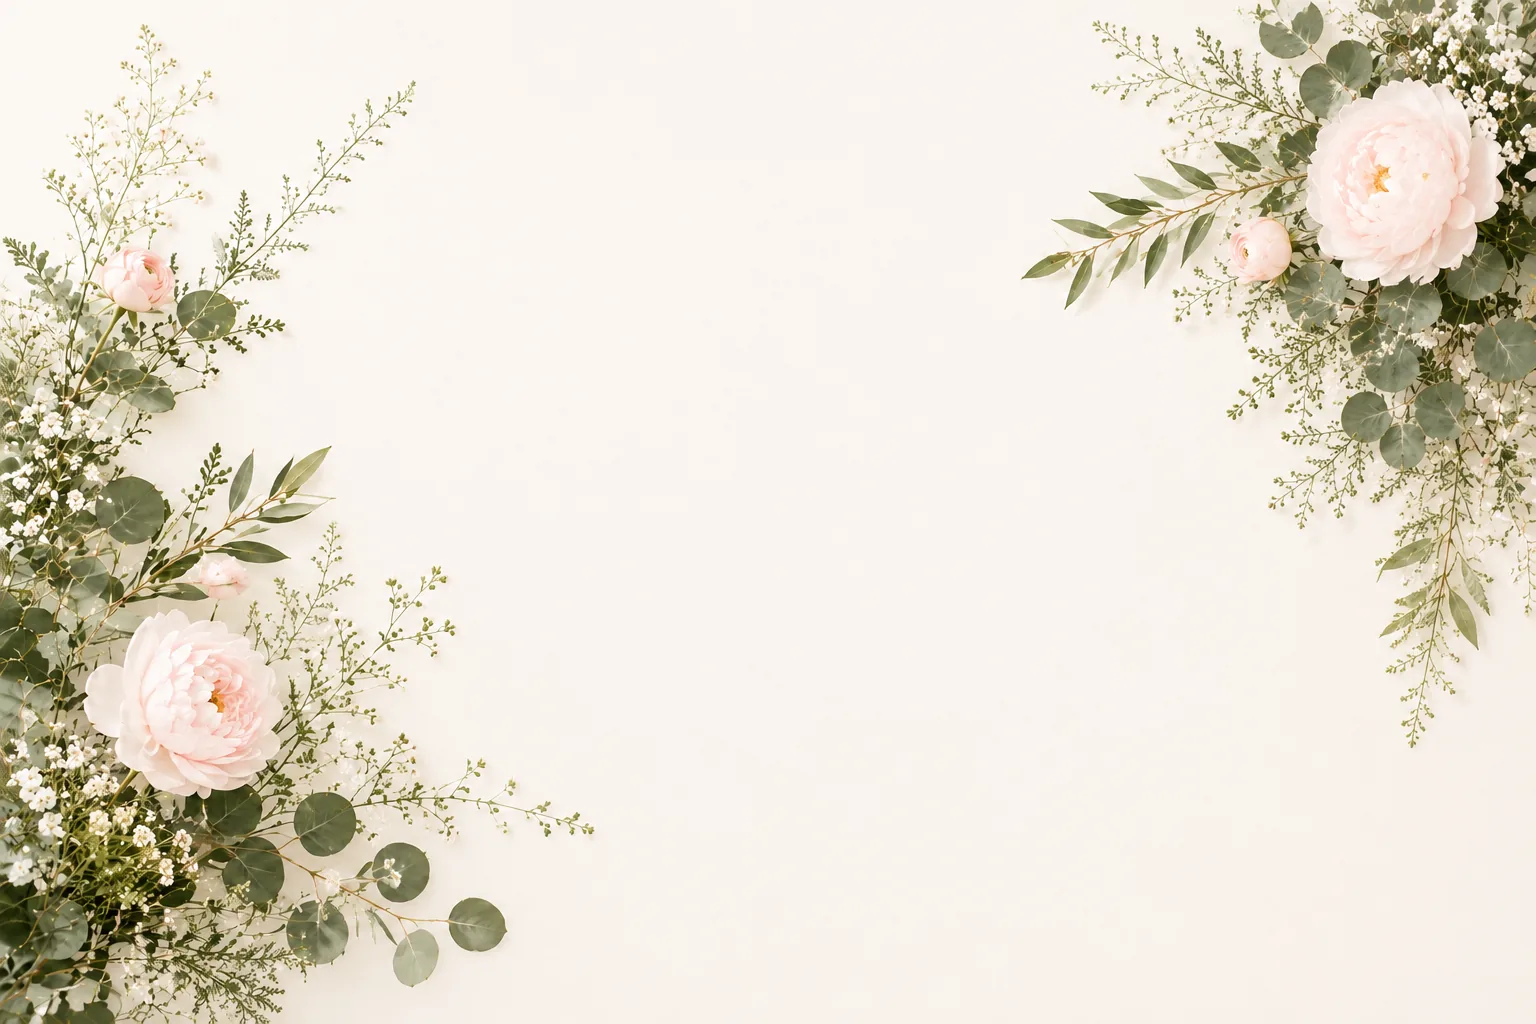
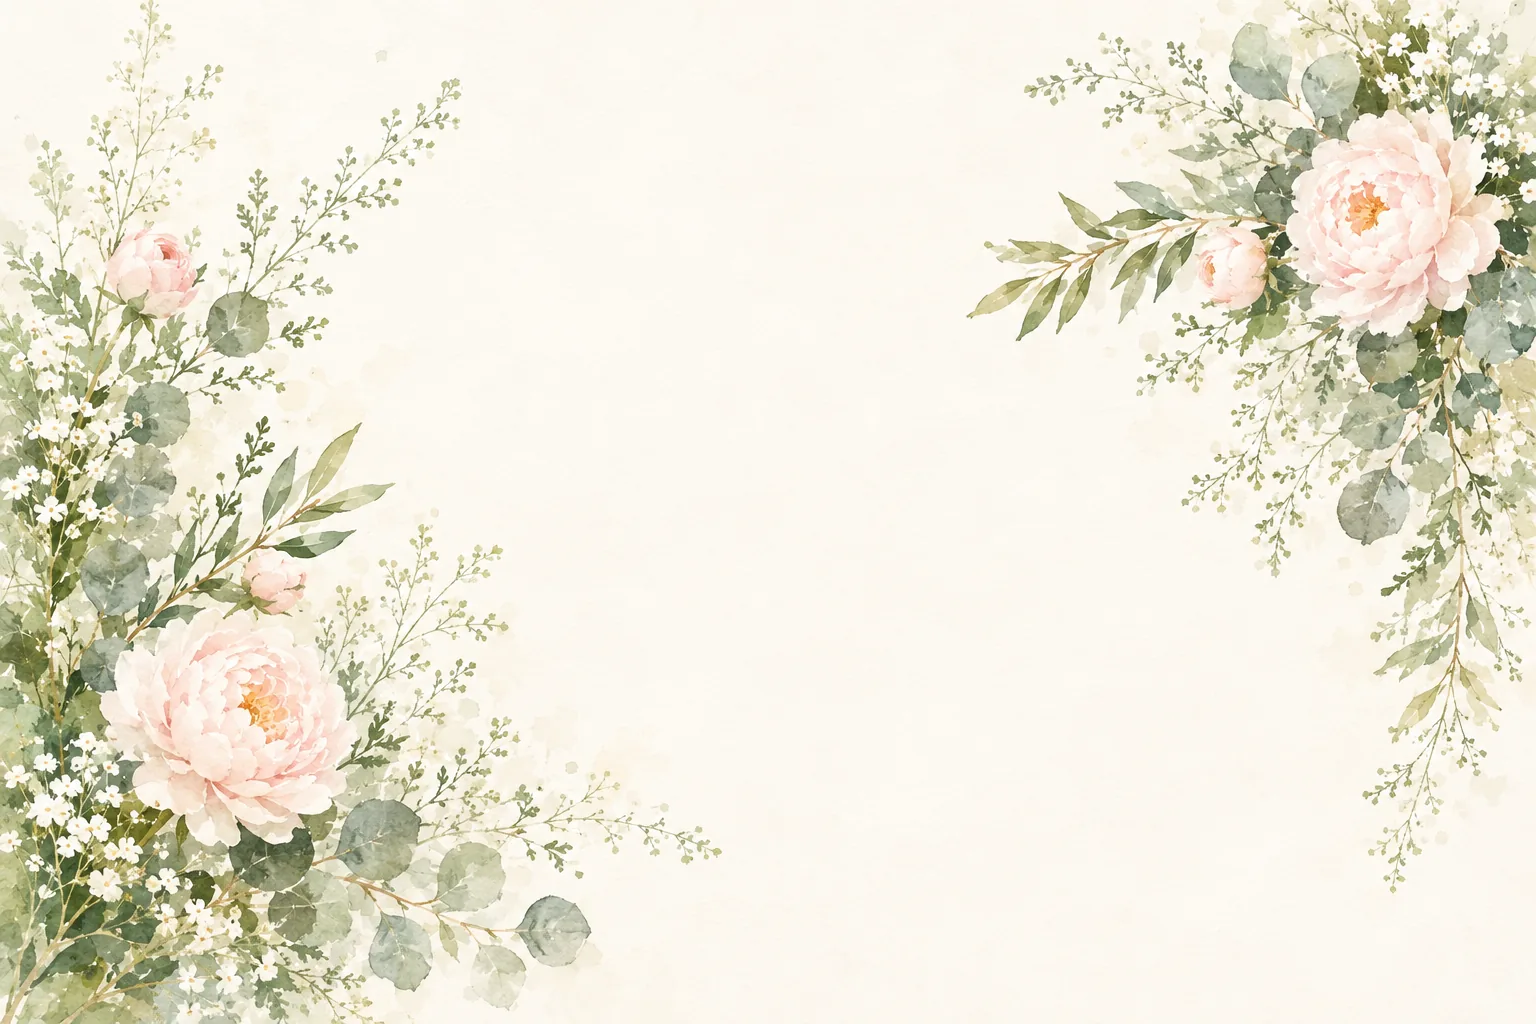
Drop in the couple's engagement photo and the new backdrop
PORTRAIT — the placeholder is gone; the card now carries the real photo.
- assets/portrait: downscaled 4480px square -> 1600px (the frame never
  renders above ~900px) and compressed to 178 KB WebP / 319 KB JPEG,
  served via <picture> so WebP browsers take the smaller file.
- object-position: center 78%. The frame is wider than the square photo,
  so it shows a horizontal band; biasing low keeps the clasped hands and
  the ring above the dissolving edge instead of inside it.
- Shorten the fade to start at 66% rather than 56% for the same reason —
  the subject sits low in this photo and a longer dissolve washed it out.
- Remove the now-unused placeholder markup and styles.

BACKDROP — re-export bg-floral from the new watercolour source: pastel
peonies and eucalyptus in two corners around a large open cream field.
138 KB WebP / 205 KB JPEG. Bump the image ?v= to 4, stylesheet to v=15.

Changed region(s): [[0.0, 0.0, 0.4688, 1.0], [0.625, 0.0, 1.0, 0.8438]]

diff --git a/css/save-the-date.css b/css/save-the-date.css
@@ -72,10 +72,10 @@ body {
   /* the ?v= is a cache buster on the IMAGE itself — bump it whenever bg-floral is
      re-exported, or browsers keep serving the previous picture from cache even
      though the file on disk changed. */
-  background-image: url(../assets/bg-floral.jpg?v=3);
+  background-image: url(../assets/bg-floral.jpg?v=4);
   background-image: image-set(
-    url(../assets/bg-floral.webp?v=3) type("image/webp"),
-    url(../assets/bg-floral.jpg?v=3)  type("image/jpeg"));
+    url(../assets/bg-floral.webp?v=4) type("image/webp"),
+    url(../assets/bg-floral.jpg?v=4)  type("image/jpeg"));
   background-size: cover;
   background-position: center;
   background-repeat: no-repeat;
@@ -293,23 +293,20 @@ body {
    ending on a hard seam. A mask rather than an overlay gradient, so it fades to
    whatever is actually behind it — no colour to keep in sync with the stock. */
 .std__photo-media {
-  position: absolute; inset: 0;
-  background: linear-gradient(150deg, #f7e9ec, #eef0e6 55%, #e6ecdd);
-  -webkit-mask-image: linear-gradient(to bottom, #000 56%, rgba(0, 0, 0, 0) 97%);
-          mask-image: linear-gradient(to bottom, #000 56%, rgba(0, 0, 0, 0) 97%);
+  display: block; position: absolute; inset: 0;
+  background: linear-gradient(150deg, #f7e9ec, #eef0e6 55%, #e6ecdd);   /* while it loads */
+  /* The fade is kept short — it starts two thirds down — because the photo's
+     subject (the clasped hands and the ring) sits low in the frame and a longer
+     dissolve would wash it out. */
+  -webkit-mask-image: linear-gradient(to bottom, #000 66%, rgba(0, 0, 0, 0) 99%);
+          mask-image: linear-gradient(to bottom, #000 66%, rgba(0, 0, 0, 0) 99%);
 }
-/* the real photo: <img class="std__photo-img" …> — cropped to fill the frame */
-.std__photo-img { display: block; width: 100%; height: 100%; object-fit: cover; }
-/* placeholder shown until a real photo is dropped in — biased upward so it sits
-   in the solid part of the frame rather than down in the fade */
-.std__photo-ph {
-  position: absolute; inset: 0; display: flex; flex-direction: column;
-  align-items: center; justify-content: center; gap: 1cqw; padding-bottom: 20cqw;
-}
-.std__photo-ph svg { width: 6.5cqw; height: auto; color: #d3a6ad; opacity: 0.9; }
-.std__photo-ph em {
-  font-family: var(--font-body); font-style: normal; font-size: 1.7cqw;
-  letter-spacing: 0.18em; text-transform: uppercase; color: #b08e96;
+.std__photo-img {
+  display: block; width: 100%; height: 100%; object-fit: cover;
+  /* The frame is wider than the square photo, so it shows a horizontal band of it.
+     Biased low so the hands and the ring land above the dissolving edge rather
+     than in it — raise this number to show more of the photo's lower half. */
+  object-position: center 78%;
 }
 
 /* "Save the Date" sits ON the photo, low enough to land in its dissolving edge —

diff --git a/save-the-date.html b/save-the-date.html
@@ -33,7 +33,7 @@
   <!-- Bespoke save-the-date theme (mirrors the locked sage + blush palette).
        The ?v= query is a cache buster — bump it whenever the CSS or JS changes so
        browsers pick the new file up without a hard refresh. -->
-  <link rel="stylesheet" href="css/save-the-date.css?v=14" />
+  <link rel="stylesheet" href="css/save-the-date.css?v=15" />
 
   <!-- No-JS fallback: hide the envelope pieces so the sandwiched letter shows. -->
   <noscript>
@@ -65,20 +65,16 @@
            (between the back and the front pocket). Its top is glimpsed when the
            flap lifts; the whole letter is exposed as the envelope slides down. -->
       <main class="std" id="std-main" aria-labelledby="std-names">
-        <!-- THE PORTRAIT — a hero photo across the top two thirds of the card, its
-             lower edge dissolving into the paper. "Save the Date" sits over it.
-             TO ADD THE REAL PHOTO: replace the <span class="std__photo-ph">…</span>
-             below with:
-               <img class="std__photo-img" src="assets/portrait.jpg"
-                    alt="Victor and Ashley" />
-             It's cropped to fill the frame (object-fit: cover). -->
+        <!-- THE PORTRAIT — the hero across the top two thirds of the card, its lower
+             edge dissolving into the paper. "Save the Date" sits over it.
+             The frame is wider than the square photo, so it's cropped to fill;
+             .std__photo-img's object-position decides which band shows. -->
         <figure class="std__photo">
-          <span class="std__photo-media">
-            <span class="std__photo-ph" aria-hidden="true">
-              <svg viewBox="0 0 24 24" fill="none"><path d="M12 20.5s-6.6-4-8.9-8C1 9.3 2.7 6 6 6c2 0 3.3 1.2 4 2.4C10.7 7.2 12 6 14 6c3.3 0 5 3.3 2.9 6.5-2.3 4-8.9 8-8.9 8z" fill="currentColor"/></svg>
-              <em>Your photo</em>
-            </span>
-          </span>
+          <picture class="std__photo-media">
+            <source srcset="assets/portrait.webp?v=1" type="image/webp" />
+            <img class="std__photo-img" src="assets/portrait.jpg?v=1"
+                 alt="Victor and Ashley, arms wrapped together, her engagement ring on show" />
+          </picture>
           <p class="std__eyebrow">Save the Date</p>
         </figure>
 

diff --git a/README.md b/README.md
@@ -155,6 +155,10 @@ Until then, treat any "submitted" RSVP as **not recorded**.
 
 ## Credits
 
+- **Portrait** — `assets/portrait.webp` (with a `.jpg` fallback) is the couple's own
+  engagement photo, downscaled from 4480px square to 1600px and compressed. It is
+  the hero across the top of the letter, cropped to fill; `object-position` in
+  `.std__photo-img` chooses which band of the square shows.
 - **Backdrop** — `assets/bg-floral.webp` (with a `.jpg` fallback) is the couple's
   **own artwork**: a sunlit floral frame — roses, eucalyptus and fern around an open
   cream centre — compressed for the web. It's set on `body` with `background-size:
